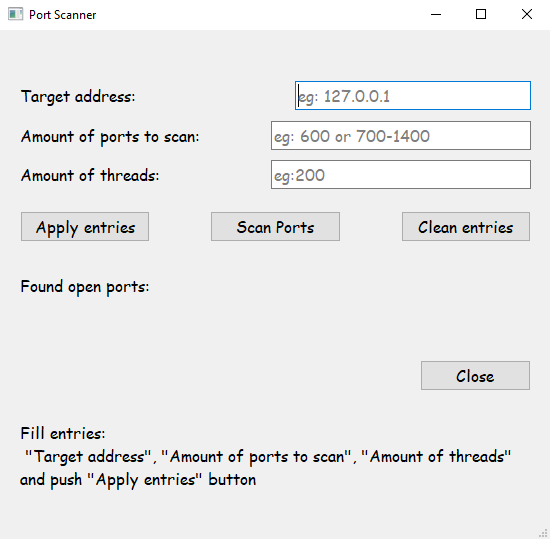
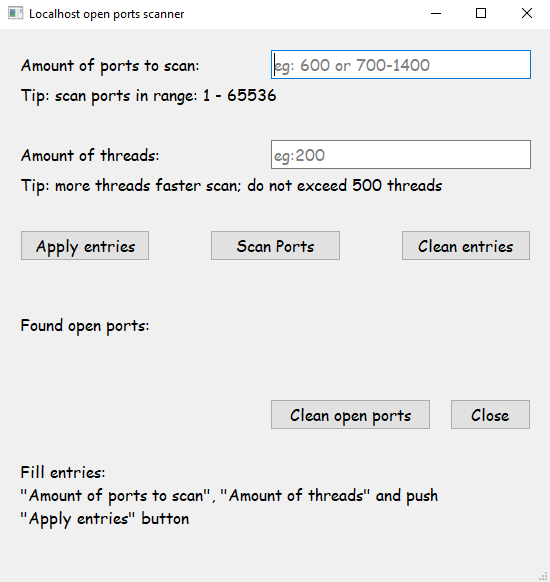
rearange scanner py and add limitations to ports and threads

diff --git a/App_main/UI/ports_scan_ui.py b/App_main/UI/ports_scan_ui.py
@@ -12,82 +12,83 @@ from PyQt6 import QtCore, QtGui, QtWidgets
 class Ui_mw_main(object):
     def setupUi(self, mw_main):
         mw_main.setObjectName("mw_main")
-        mw_main.resize(550, 509)
+        mw_main.resize(550, 553)
         font = QtGui.QFont()
         font.setFamily("Comic Sans MS")
         font.setPointSize(12)
         mw_main.setFont(font)
         self.centralwidget = QtWidgets.QWidget(parent=mw_main)
         self.centralwidget.setObjectName("centralwidget")
-        self.pb_cancel = QtWidgets.QPushButton(parent=self.centralwidget)
-        self.pb_cancel.setGeometry(QtCore.QRect(420, 330, 111, 31))
-        self.pb_cancel.setObjectName("pb_cancel")
         self.lb_message = QtWidgets.QLabel(parent=self.centralwidget)
-        self.lb_message.setGeometry(QtCore.QRect(20, 380, 531, 91))
+        self.lb_message.setGeometry(QtCore.QRect(20, 420, 531, 91))
         self.lb_message.setObjectName("lb_message")
         self.lb_le_found_ports = QtWidgets.QLabel(parent=self.centralwidget)
-        self.lb_le_found_ports.setGeometry(QtCore.QRect(20, 280, 510, 31))
+        self.lb_le_found_ports.setGeometry(QtCore.QRect(20, 320, 510, 31))
         self.lb_le_found_ports.setText("")
         self.lb_le_found_ports.setTextInteractionFlags(QtCore.Qt.TextInteractionFlag.LinksAccessibleByMouse|QtCore.Qt.TextInteractionFlag.TextSelectableByMouse)
         self.lb_le_found_ports.setObjectName("lb_le_found_ports")
         self.lb_found_ports = QtWidgets.QLabel(parent=self.centralwidget)
-        self.lb_found_ports.setGeometry(QtCore.QRect(20, 240, 141, 31))
+        self.lb_found_ports.setGeometry(QtCore.QRect(20, 280, 141, 31))
         self.lb_found_ports.setObjectName("lb_found_ports")
         self.layoutWidget = QtWidgets.QWidget(parent=self.centralwidget)
-        self.layoutWidget.setGeometry(QtCore.QRect(20, 50, 511, 31))
+        self.layoutWidget.setGeometry(QtCore.QRect(20, 20, 511, 31))
         self.layoutWidget.setObjectName("layoutWidget")
-        self.gridLayout = QtWidgets.QGridLayout(self.layoutWidget)
-        self.gridLayout.setContentsMargins(0, 0, 0, 0)
-        self.gridLayout.setHorizontalSpacing(159)
-        self.gridLayout.setObjectName("gridLayout")
-        self.lb_target_port = QtWidgets.QLabel(parent=self.layoutWidget)
-        self.lb_target_port.setObjectName("lb_target_port")
-        self.gridLayout.addWidget(self.lb_target_port, 0, 0, 1, 1)
-        self.le_target_port = QtWidgets.QLineEdit(parent=self.layoutWidget)
-        self.le_target_port.setObjectName("le_target_port")
-        self.gridLayout.addWidget(self.le_target_port, 0, 1, 1, 1)
-        self.layoutWidget1 = QtWidgets.QWidget(parent=self.centralwidget)
-        self.layoutWidget1.setGeometry(QtCore.QRect(20, 90, 511, 31))
-        self.layoutWidget1.setObjectName("layoutWidget1")
-        self.gridLayout_2 = QtWidgets.QGridLayout(self.layoutWidget1)
-        self.gridLayout_2.setContentsMargins(0, 0, 0, 0)
-        self.gridLayout_2.setHorizontalSpacing(71)
-        self.gridLayout_2.setObjectName("gridLayout_2")
-        self.lb_ports_amount = QtWidgets.QLabel(parent=self.layoutWidget1)
+        self.gl_scanned_ports = QtWidgets.QGridLayout(self.layoutWidget)
+        self.gl_scanned_ports.setContentsMargins(0, 0, 0, 0)
+        self.gl_scanned_ports.setHorizontalSpacing(71)
+        self.gl_scanned_ports.setObjectName("gl_scanned_ports")
+        self.lb_ports_amount = QtWidgets.QLabel(parent=self.layoutWidget)
         self.lb_ports_amount.setObjectName("lb_ports_amount")
-        self.gridLayout_2.addWidget(self.lb_ports_amount, 0, 0, 1, 1)
-        self.le_ports_amount = QtWidgets.QLineEdit(parent=self.layoutWidget1)
+        self.gl_scanned_ports.addWidget(self.lb_ports_amount, 0, 0, 1, 1)
+        self.le_ports_amount = QtWidgets.QLineEdit(parent=self.layoutWidget)
         self.le_ports_amount.setObjectName("le_ports_amount")
-        self.gridLayout_2.addWidget(self.le_ports_amount, 0, 1, 1, 1)
-        self.layoutWidget2 = QtWidgets.QWidget(parent=self.centralwidget)
-        self.layoutWidget2.setGeometry(QtCore.QRect(20, 129, 511, 31))
-        self.layoutWidget2.setObjectName("layoutWidget2")
-        self.gridLayout_3 = QtWidgets.QGridLayout(self.layoutWidget2)
-        self.gridLayout_3.setContentsMargins(0, 0, 0, 0)
-        self.gridLayout_3.setHorizontalSpacing(111)
-        self.gridLayout_3.setObjectName("gridLayout_3")
-        self.lb_threads_amount = QtWidgets.QLabel(parent=self.layoutWidget2)
+        self.gl_scanned_ports.addWidget(self.le_ports_amount, 0, 1, 1, 1)
+        self.layoutWidget1 = QtWidgets.QWidget(parent=self.centralwidget)
+        self.layoutWidget1.setGeometry(QtCore.QRect(20, 110, 511, 31))
+        self.layoutWidget1.setObjectName("layoutWidget1")
+        self.gl_threads_quantity = QtWidgets.QGridLayout(self.layoutWidget1)
+        self.gl_threads_quantity.setContentsMargins(0, 0, 0, 0)
+        self.gl_threads_quantity.setHorizontalSpacing(111)
+        self.gl_threads_quantity.setObjectName("gl_threads_quantity")
+        self.lb_threads_amount = QtWidgets.QLabel(parent=self.layoutWidget1)
         self.lb_threads_amount.setObjectName("lb_threads_amount")
-        self.gridLayout_3.addWidget(self.lb_threads_amount, 0, 0, 1, 1)
-        self.le_threads_amount = QtWidgets.QLineEdit(parent=self.layoutWidget2)
+        self.gl_threads_quantity.addWidget(self.lb_threads_amount, 0, 0, 1, 1)
+        self.le_threads_amount = QtWidgets.QLineEdit(parent=self.layoutWidget1)
         self.le_threads_amount.setObjectName("le_threads_amount")
-        self.gridLayout_3.addWidget(self.le_threads_amount, 0, 1, 1, 1)
-        self.layoutWidget3 = QtWidgets.QWidget(parent=self.centralwidget)
-        self.layoutWidget3.setGeometry(QtCore.QRect(20, 180, 511, 33))
-        self.layoutWidget3.setObjectName("layoutWidget3")
-        self.gridLayout_4 = QtWidgets.QGridLayout(self.layoutWidget3)
-        self.gridLayout_4.setContentsMargins(0, 0, 0, 0)
-        self.gridLayout_4.setHorizontalSpacing(60)
-        self.gridLayout_4.setObjectName("gridLayout_4")
-        self.pb_apply_to_scan = QtWidgets.QPushButton(parent=self.layoutWidget3)
+        self.gl_threads_quantity.addWidget(self.le_threads_amount, 0, 1, 1, 1)
+        self.layoutWidget2 = QtWidgets.QWidget(parent=self.centralwidget)
+        self.layoutWidget2.setGeometry(QtCore.QRect(20, 200, 511, 33))
+        self.layoutWidget2.setObjectName("layoutWidget2")
+        self.gl_scan_buttons = QtWidgets.QGridLayout(self.layoutWidget2)
+        self.gl_scan_buttons.setContentsMargins(0, 0, 0, 0)
+        self.gl_scan_buttons.setHorizontalSpacing(60)
+        self.gl_scan_buttons.setObjectName("gl_scan_buttons")
+        self.pb_apply_to_scan = QtWidgets.QPushButton(parent=self.layoutWidget2)
         self.pb_apply_to_scan.setObjectName("pb_apply_to_scan")
-        self.gridLayout_4.addWidget(self.pb_apply_to_scan, 0, 0, 1, 1)
-        self.pb_scan = QtWidgets.QPushButton(parent=self.layoutWidget3)
+        self.gl_scan_buttons.addWidget(self.pb_apply_to_scan, 0, 0, 1, 1)
+        self.pb_scan = QtWidgets.QPushButton(parent=self.layoutWidget2)
         self.pb_scan.setObjectName("pb_scan")
-        self.gridLayout_4.addWidget(self.pb_scan, 0, 1, 1, 1)
-        self.pb_clean_entries = QtWidgets.QPushButton(parent=self.layoutWidget3)
+        self.gl_scan_buttons.addWidget(self.pb_scan, 0, 1, 1, 1)
+        self.pb_clean_entries = QtWidgets.QPushButton(parent=self.layoutWidget2)
         self.pb_clean_entries.setObjectName("pb_clean_entries")
-        self.gridLayout_4.addWidget(self.pb_clean_entries, 0, 2, 1, 1)
+        self.gl_scan_buttons.addWidget(self.pb_clean_entries, 0, 2, 1, 1)
+        self.pb_cancel = QtWidgets.QPushButton(parent=self.centralwidget)
+        self.pb_cancel.setGeometry(QtCore.QRect(450, 370, 81, 31))
+        self.pb_cancel.setObjectName("pb_cancel")
+        self.pb_clean_ports = QtWidgets.QPushButton(parent=self.centralwidget)
+        self.pb_clean_ports.setGeometry(QtCore.QRect(270, 370, 161, 31))
+        sizePolicy = QtWidgets.QSizePolicy(QtWidgets.QSizePolicy.Policy.Minimum, QtWidgets.QSizePolicy.Policy.Fixed)
+        sizePolicy.setHorizontalStretch(0)
+        sizePolicy.setVerticalStretch(0)
+        sizePolicy.setHeightForWidth(self.pb_clean_ports.sizePolicy().hasHeightForWidth())
+        self.pb_clean_ports.setSizePolicy(sizePolicy)
+        self.pb_clean_ports.setObjectName("pb_clean_ports")
+        self.lb_scanned_ports_tip = QtWidgets.QLabel(parent=self.centralwidget)
+        self.lb_scanned_ports_tip.setGeometry(QtCore.QRect(20, 50, 511, 31))
+        self.lb_scanned_ports_tip.setObjectName("lb_scanned_ports_tip")
+        self.lb_threads_tip = QtWidgets.QLabel(parent=self.centralwidget)
+        self.lb_threads_tip.setGeometry(QtCore.QRect(20, 140, 511, 31))
+        self.lb_threads_tip.setObjectName("lb_threads_tip")
         mw_main.setCentralWidget(self.centralwidget)
         self.statusbar = QtWidgets.QStatusBar(parent=mw_main)
         self.statusbar.setObjectName("statusbar")
@@ -98,12 +99,9 @@ class Ui_mw_main(object):
 
     def retranslateUi(self, mw_main):
         _translate = QtCore.QCoreApplication.translate
-        mw_main.setWindowTitle(_translate("mw_main", "Port Scanner"))
-        self.pb_cancel.setText(_translate("mw_main", "Close"))
+        mw_main.setWindowTitle(_translate("mw_main", "Localhost open ports scanner"))
         self.lb_message.setText(_translate("mw_main", "Message"))
         self.lb_found_ports.setText(_translate("mw_main", "Found open ports:"))
-        self.lb_target_port.setText(_translate("mw_main", "Target address:"))
-        self.le_target_port.setPlaceholderText(_translate("mw_main", "eg: 127.0.0.1"))
         self.lb_ports_amount.setText(_translate("mw_main", "Amount of ports to scan:"))
         self.le_ports_amount.setPlaceholderText(_translate("mw_main", "eg: 600 or 700-1400"))
         self.lb_threads_amount.setText(_translate("mw_main", "Amount of threads:"))
@@ -111,3 +109,7 @@ class Ui_mw_main(object):
         self.pb_apply_to_scan.setText(_translate("mw_main", "Apply entries"))
         self.pb_scan.setText(_translate("mw_main", "Scan Ports"))
         self.pb_clean_entries.setText(_translate("mw_main", "Clean entries"))
+        self.pb_cancel.setText(_translate("mw_main", "Close"))
+        self.pb_clean_ports.setText(_translate("mw_main", "Clean open ports"))
+        self.lb_scanned_ports_tip.setText(_translate("mw_main", "Tip: scan ports in range: 1 - 65536"))
+        self.lb_threads_tip.setText(_translate("mw_main", "Tip: more threads faster scan; do not exceed 500 threads"))

diff --git a/App_main/scanner.py b/App_main/scanner.py
@@ -15,6 +15,9 @@ class SocketMain(qtw.QMainWindow, Ui_mw_main):
     q: Queue = Queue()
     open_ports: list[Any] = []
     threads_ls: list[Thread]= []
+    threads_nb: int = 0
+    applied_ports: bool = False
+    applied_threads: bool = False
 
     def __init__(self) -> None:
         super().__init__()
@@ -23,12 +26,13 @@ class SocketMain(qtw.QMainWindow, Ui_mw_main):
         self.pb_scan.clicked.connect(self.scan_ports)
         self.pb_clean_entries.clicked.connect(self.clean_entries)
         self.pb_cancel.clicked.connect(self.close)
+        self.pb_clean_ports.clicked.connect(self.clean_open_ports)
         Messages.entry_message(self)
     
     def port_scanner(self, port) -> bool:
         try:
             sock = socket.socket(socket.AF_INET, socket.SOCK_STREAM)
-            sock.connect((self.le_target_port.text(), port))
+            sock.connect(('127.0.0.1', port))
             return True
         except:
             return False
@@ -37,22 +41,45 @@ class SocketMain(qtw.QMainWindow, Ui_mw_main):
         for x in ports_ls:
             self.q.put(x)
     
-    def apply_queue(self) -> None:
-        if len(
-            self.le_target_port.text()
-            ) and len(
-                self.le_ports_amount.text()
-                ) and len(
-                    self.le_threads_amount.text()
-                ):
+    def _ports_limit(self) -> None:
+        n, n1, n2 = 0, 0, 0
+        if len(self.le_ports_amount.text()):
             if '-' in self.le_ports_amount.text():
-                n1, n2 = [int(x) for x in self.le_ports_amount.text().split('-')]
-                self.fill_queue(list(range(n1, n2)))
+                n1, n2 = [
+                    int(x) for x in self.le_ports_amount.text().split('-')
+                    ]
+                if n1 > 65536 or n2 > 65536:
+                    pass
+                else:
+                    self.fill_queue(list(range(n1, n2)))
             else:
-                self.fill_queue(list(range(1, int(self.le_ports_amount.text()))))
-            Messages.apply(self)
+                n = int(self.le_ports_amount.text())
+                if n > 65536:
+                    pass
+                else:
+                    self.fill_queue(list(range(1, n)))
+            
+            if n1 > 65536 or n2 > 65536 or n > 65536:
+                Messages.exceed_ports_limit(self)
+            else:
+                self.applied_ports = True
+                Messages.apply(self)
         else:
             Messages.forgotten_entries(self)
+    
+    def _threads_limit(self) -> None:
+        if len(self.le_threads_amount.text()):
+            self.threads_nb  = int(self.le_threads_amount.text())
+            if self.threads_nb > 500:
+                Messages.exceed_threads_limit(self)
+            else:
+                self.applied_threads = True
+        else:
+            Messages.forgotten_entries(self)
+
+    def apply_queue(self) -> None:
+        self._ports_limit()
+        self._threads_limit()
     
     def worker(self) -> None:
         while not self.q.empty():
@@ -61,32 +88,38 @@ class SocketMain(qtw.QMainWindow, Ui_mw_main):
                 self.open_ports.append(port)
     
     def scan_ports(self) -> Any:
-        for _ in range(int(self.le_threads_amount.text())):
-            thread: Thread = Thread(target=self.worker)
-            self.threads_ls.append(thread)
-        
-        for ts in self.threads_ls:
-            ts.start()
+        if self.applied_ports == True and self.applied_threads == True:
+            for _ in range(self.threads_nb):
+                thread: Thread = Thread(target=self.worker)
+                self.threads_ls.append(thread)
+            
+            for ts in self.threads_ls:
+                ts.start()
 
-        for tf in self.threads_ls:
-            tf.join()
-        
-        self.lb_le_found_ports.setText(str(self.open_ports)[1:-1])
-        Messages.clean(self)
- 
+            for tf in self.threads_ls:
+                tf.join()
+            
+            self.lb_le_found_ports.setText(str(self.open_ports)[1:-1])
+            Messages.clean(self)
+        else:
+            Messages.forgotten_entries(self)
+
     def clean_entries(self) -> None:
-        self.le_target_port.clear()
         self.le_threads_amount.clear()
         self.le_ports_amount.clear()
         self.threads_ls.clear()
+        self.applied_ports = False
+        self.applied_threads = False
+    
+    def clean_open_ports(self) -> None:
+        self.lb_le_found_ports.clear()
 
 
 
 class Messages(SocketMain):
     def entry_message(self):
         self.lb_message.setText(
-            'Fill entries:\n "{}", "{}", "{}" \nand push "{}" button'.format(
-                self.lb_target_port.text()[:-1],
+            'Fill entries:\n"{}", "{}" and push \n"{}" button'.format(
                 self.lb_ports_amount.text()[:-1],
                 self.lb_threads_amount.text()[:-1],
                 self.pb_apply_to_scan.text()
@@ -95,10 +128,11 @@ class Messages(SocketMain):
     
     def forgotten_entries(self):
         self.lb_message.setText(
-                'All entries:\n"{}", "{}" and "{}"\n have to be filled in'.format(
-                    self.lb_target_port.text()[:-1],
+                'Entries:\n"{}" and "{}"\n have to be filled in,'
+                ' next push "{}" button'.format(
                     self.lb_ports_amount.text()[:-1],
-                    self.lb_threads_amount.text()[:-1]
+                    self.lb_threads_amount.text()[:-1],
+                    self.pb_apply_to_scan.text()
                 )
             )
     
@@ -109,6 +143,17 @@ class Messages(SocketMain):
     
     def clean(self):
         self.lb_message.clear()
+    
+    def exceed_ports_limit(self):
+        self.lb_message.setText(
+            'The provided number of ports is bigger then max. number of ports'
+            )
+    
+    def exceed_threads_limit(self):
+        self.lb_message.setText(
+            'The provided number of threads is'
+            ' bigger then max. number of threads'
+            )
 
 
 

diff --git a/README.md b/README.md
@@ -1,7 +1,7 @@
-# port-scanner
+# localhost-open-ports-scanner
 Port scanner application made in python 3.12 with pyqt6.
 Fast tool to help secure your computer.
-It checks if you have any open unused port on your computer.
+It checks if you have any open unused ports.
 
 
 ## ui examples
@@ -12,7 +12,7 @@ It checks if you have any open unused port on your computer.
 </p>
 
 ### notes
-- [x] scans ports of any given address
+- [x] looks for open ports in localhost IP address
 - [x] scans ports from the beginning to the chosen number or in given range
 - [x] uses multithreading (faster scanning)
 
